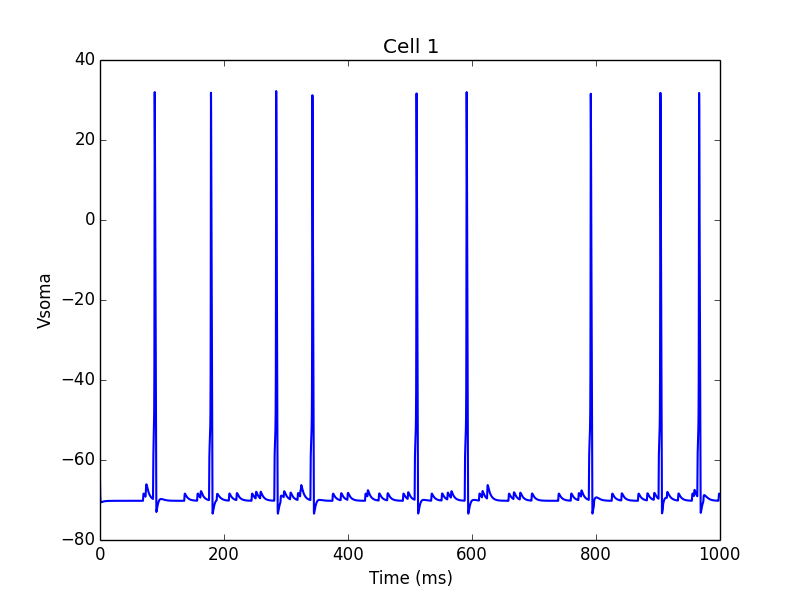
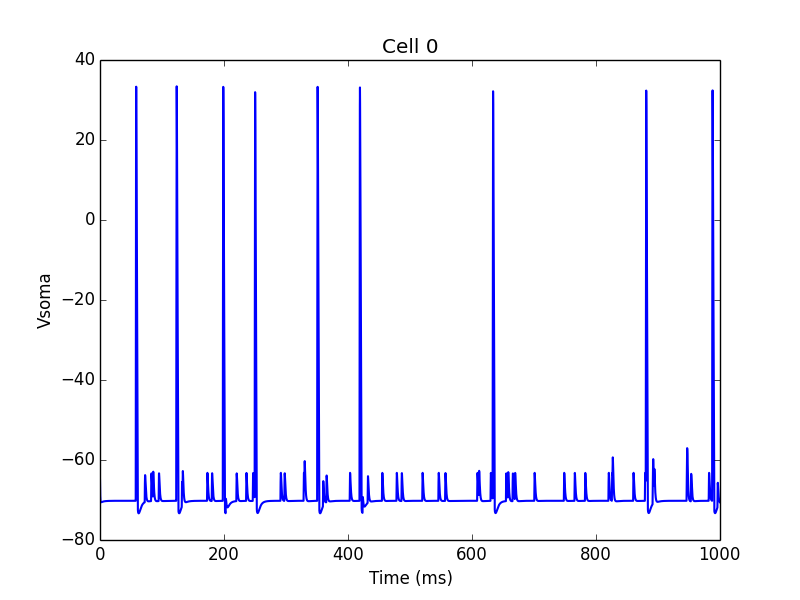
updated HHTut.py and tut1 figs

Changed region(s): [[0.1562, 0.15, 0.9062, 0.87], [0.4688, 0.06, 0.5625, 0.09]]

diff --git a/examples/HHTut.py b/examples/HHTut.py
@@ -41,7 +41,7 @@ netParams['cellParams'].append(cellRule)  # add dict to list of cell properties
 
 # Synaptic mechanism parameters
 netParams['synMechParams'] = []
-netParams['synMechParams'].append({'label': 'NMDA', 'mod': 'ExpSyn', 'tau': 0.1, 'e': 0})
+netParams['synMechParams'].append({'label': 'NMDA', 'mod': 'Exp2Syn', 'tau1': 0.1, 'tau2': 1.0, 'e': 0})
  
 
 # Connectivity parameters
@@ -49,16 +49,15 @@ netParams['connParams'] = []
 
 netParams['connParams'].append(
     {'preTags': {'popLabel': 'PYR'}, 'postTags': {'popLabel': 'PYR'},
-    'weight': 0.05,                    # weight of each connection
+    'weight': 0.005,                    # weight of each connection
     'delay': '0.2+gauss(13.0,1.4)',     # delay min=0.2, mean=13.0, var = 1.4
     'threshold': 10,                    # threshold
     'convergence': 'uniform(1,15)'})    # convergence (num presyn targeting postsyn) is uniformly distributed between 1 and 15
 
 netParams['connParams'].append(
     {'preTags': {'popLabel': 'background'}, 'postTags': {'cellType': 'PYR'}, # background -> PYR
-    'connFunc': 'fullConn',             # all-to-all (can omit this param)
     'weight': 0.1,                    # fixed weight of 0.08
-    'synMech': 'NMDA',                      # target NMDA synapse
+    'synMech': 'NMDA',                     # target NMDA synapse
     'delay': 'uniform(1,5)'})           # uniformly distributed delays between 1-5ms
 
 
@@ -74,11 +73,11 @@ simConfig['dt'] = 0.025 # Internal integration timestep to use
 simConfig['randseed'] = 1 # Random seed to use
 simConfig['createNEURONObj'] = 1  # create HOC objects when instantiating network
 simConfig['createPyStruct'] = 1  # create Python structure (simulator-independent) when instantiating network
-simConfig['verbose'] = 1  # show detailed messages 
+simConfig['verbose'] = False  # show detailed messages 
 
 
 # Recording 
-simConfig['recordCells'] = []  # whether to record cell traces or not
+simConfig['recordCells'] = []  # which cells to record from
 simConfig['recordTraces'] = {'Vsoma':{'sec':'soma','pos':0.5,'var':'v'}}
 simConfig['recordStim'] = True  # record spikes of cell stims
 simConfig['recordStep'] = 0.1 # Step size in ms to save data (eg. V traces, LFP, etc)
@@ -95,7 +94,7 @@ simConfig['saveDpk'] = False # save to a .dpk pickled file
 
 # Analysis and plotting 
 simConfig['plotRaster'] = True # Whether or not to plot a raster
-simConfig['plotCells'] = [] # plot recorded traces for this list of cells
+simConfig['plotCells'] = [0] # plot recorded traces for this list of cells
 simConfig['plotLFPSpectrum'] = False # plot power spectral density
 simConfig['maxspikestoplot'] = 3e8 # Maximum number of spikes to plot
 simConfig['plotConn'] = False # whether to plot conn matrix
